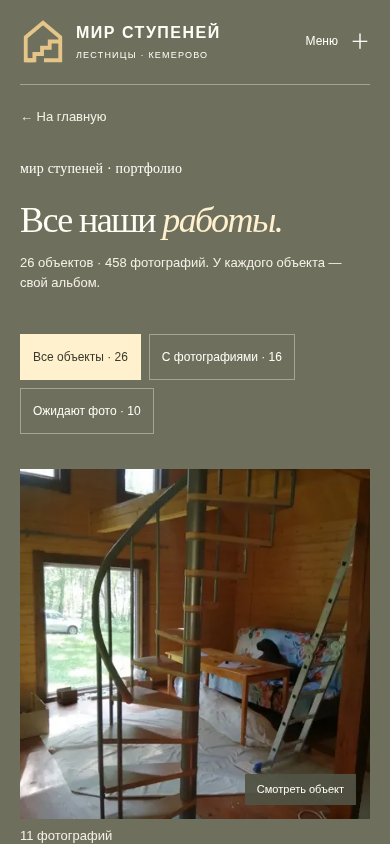
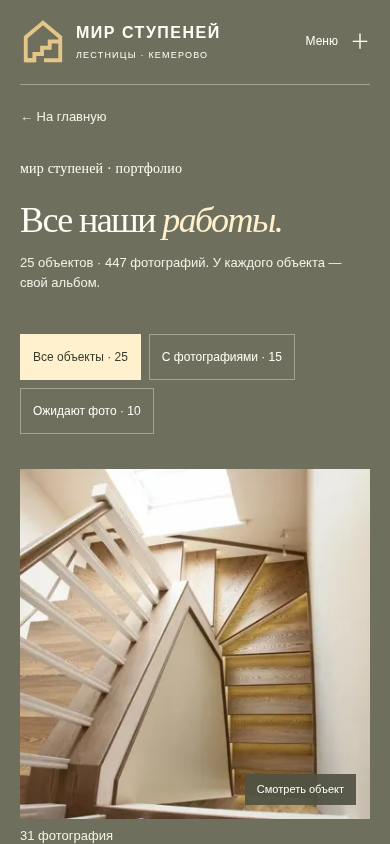
Remove first portfolio object and set requested album order

diff --git a/works.html b/works.html
@@ -4,7 +4,7 @@
   <meta charset="UTF-8">
   <meta name="viewport" content="width=device-width, initial-scale=1">
   <meta name="theme-color" content="#6e6f5d">
-  <meta name="description" content="26 объектов и 458 фотографий лестниц. Портфолио мастерской Мир ступеней в Кемерово.">
+  <meta name="description" content="25 объектов и 447 фотографий лестниц. Портфолио мастерской Мир ступеней в Кемерово.">
   <title>Все работы — Мир ступеней, Кемерово</title>
   <link rel="icon" href="assets/mark.svg" type="image/svg+xml">
   <link rel="stylesheet" href="style.css">
@@ -18,24 +18,36 @@
   </header>
   <main class="wrap portfolio-page">
     <div class="breadcrumbs"><a href="index.html">← На главную</a></div>
-    <div class="portfolio-heading"><p class="eyebrow">Мир ступеней · портфолио</p><h1>Все наши <em>работы.</em></h1><p>26 объектов · 458 фотографий. У каждого объекта — свой альбом.</p></div>
+    <div class="portfolio-heading"><p class="eyebrow">Мир ступеней · портфолио</p><h1>Все наши <em>работы.</em></h1><p>25 объектов · 447 фотографий. У каждого объекта — свой альбом.</p></div>
     <div class="album-filters" role="group" aria-label="Показать объекты" hidden>
-      <button type="button" data-album-filter="all" aria-pressed="true">Все объекты · 26</button>
-      <button type="button" data-album-filter="photos" aria-pressed="false">С фотографиями · 16</button>
+      <button type="button" data-album-filter="all" aria-pressed="true">Все объекты · 25</button>
+      <button type="button" data-album-filter="photos" aria-pressed="false">С фотографиями · 15</button>
       <button type="button" data-album-filter="pending" aria-pressed="false">Ожидают фото · 10</button>
     </div>
     <p id="album-filter-status" class="sr-only" role="status"></p>
     <div class="cards album-cards">
       <article class="card album-card" data-album-status="photos">
-        <a class="album-link" href="works/object-04.html" aria-label="Открыть альбом: 11 фотографий">
-          <div class="album-cover"><img src="assets/projects/65487fbd1a21996f-thumb.webp" alt="Один из наших проектов лестницы" loading="lazy" decoding="async" width="960" height="1280"><span class="photo-hint">Смотреть объект</span></div>
-          <p class="album-count">11 фотографий</p>
-        </a>
-      </article>
-      <article class="card album-card" data-album-status="photos">
         <a class="album-link" href="works/object-05.html" aria-label="Открыть альбом: 31 фотография">
           <div class="album-cover"><img src="assets/projects/83646e6580599667-thumb.webp" alt="Один из наших проектов лестницы" loading="lazy" decoding="async" width="1280" height="853"><span class="photo-hint">Смотреть объект</span></div>
           <p class="album-count">31 фотография</p>
+        </a>
+      </article>
+      <article class="card album-card" data-album-status="photos">
+        <a class="album-link" href="works/object-18.html" aria-label="Открыть альбом: 12 фотографий">
+          <div class="album-cover"><img src="assets/projects/dda95e06a574c650-thumb.webp" alt="Один из наших проектов лестницы" loading="lazy" decoding="async" width="960" height="1280"><span class="photo-hint">Смотреть объект</span></div>
+          <p class="album-count">12 фотографий</p>
+        </a>
+      </article>
+      <article class="card album-card" data-album-status="photos">
+        <a class="album-link" href="works/object-25.html" aria-label="Открыть альбом: 90 фотографий">
+          <div class="album-cover"><img src="assets/projects/9f3cad38c17e79e0-thumb.webp" alt="Один из наших проектов лестницы" loading="lazy" decoding="async" width="960" height="1280"><span class="photo-hint">Смотреть объект</span></div>
+          <p class="album-count">90 фотографий</p>
+        </a>
+      </article>
+      <article class="card album-card" data-album-status="photos">
+        <a class="album-link" href="works/object-16.html" aria-label="Открыть альбом: 50 фотографий">
+          <div class="album-cover"><img src="assets/projects/c5fc3f71432b344d-thumb.webp" alt="Один из наших проектов лестницы" loading="lazy" decoding="async" width="960" height="1280"><span class="photo-hint">Смотреть объект</span></div>
+          <p class="album-count">50 фотографий</p>
         </a>
       </article>
       <article class="card album-card" data-album-status="photos">
@@ -75,21 +87,9 @@
         </a>
       </article>
       <article class="card album-card" data-album-status="photos">
-        <a class="album-link" href="works/object-16.html" aria-label="Открыть альбом: 50 фотографий">
-          <div class="album-cover"><img src="assets/projects/c5fc3f71432b344d-thumb.webp" alt="Один из наших проектов лестницы" loading="lazy" decoding="async" width="960" height="1280"><span class="photo-hint">Смотреть объект</span></div>
-          <p class="album-count">50 фотографий</p>
-        </a>
-      </article>
-      <article class="card album-card" data-album-status="photos">
         <a class="album-link" href="works/object-17.html" aria-label="Открыть альбом: 19 фотографий">
           <div class="album-cover"><img src="assets/projects/cd4a7f48c8c34a57-thumb.webp" alt="Один из наших проектов лестницы" loading="lazy" decoding="async" width="960" height="1280"><span class="photo-hint">Смотреть объект</span></div>
           <p class="album-count">19 фотографий</p>
-        </a>
-      </article>
-      <article class="card album-card" data-album-status="photos">
-        <a class="album-link" href="works/object-18.html" aria-label="Открыть альбом: 12 фотографий">
-          <div class="album-cover"><img src="assets/projects/dda95e06a574c650-thumb.webp" alt="Один из наших проектов лестницы" loading="lazy" decoding="async" width="960" height="1280"><span class="photo-hint">Смотреть объект</span></div>
-          <p class="album-count">12 фотографий</p>
         </a>
       </article>
       <article class="card album-card" data-album-status="photos">
@@ -108,12 +108,6 @@
         <a class="album-link" href="works/object-24.html" aria-label="Открыть альбом: 24 фотографии">
           <div class="album-cover"><img src="assets/projects/e6b535fa0ab2475e-thumb.webp" alt="Один из наших проектов лестницы" loading="lazy" decoding="async" width="719" height="1280"><span class="photo-hint">Смотреть объект</span></div>
           <p class="album-count">24 фотографии</p>
-        </a>
-      </article>
-      <article class="card album-card" data-album-status="photos">
-        <a class="album-link" href="works/object-25.html" aria-label="Открыть альбом: 90 фотографий">
-          <div class="album-cover"><img src="assets/projects/9f3cad38c17e79e0-thumb.webp" alt="Один из наших проектов лестницы" loading="lazy" decoding="async" width="960" height="1280"><span class="photo-hint">Смотреть объект</span></div>
-          <p class="album-count">90 фотографий</p>
         </a>
       </article>
       <article class="card album-card" data-album-status="photos">

diff --git a/tools/build_portfolio.py b/tools/build_portfolio.py
@@ -13,7 +13,10 @@ def plural(n, forms):
 
 def main():
     data = json.loads((ROOT / 'portfolio.json').read_text())
-    albums = data['albums']
+    settings = json.loads((ROOT / 'tools' / 'portfolio_settings.json').read_text())
+    albums = [album for album in data['albums'] if album['title'] not in settings['excluded_folders']]
+    first = {album_id: index for index, album_id in enumerate(settings['first_albums'])}
+    albums.sort(key=lambda album: (not album['photos'], first.get(album['id'], len(first))))
     source = (ROOT / 'index.html').read_text()
     header = re.search(r'  <header[\s\S]*?</header>', source)[0]
     footer = re.search(r'  <footer[\s\S]*?</footer>', source)[0]
@@ -53,7 +56,7 @@ def main():
     cards = []
     total = sum(len(a['photos']) for a in albums)
     ready = sum(bool(a['photos']) for a in albums)
-    for album in sorted(albums, key=lambda album: not album['photos']):
+    for album in albums:
         count = len(album['photos'])
         href = f'works/{album["id"]}.html'
         status = f'{count} {plural(count, ("фотография", "фотографии", "фотографий"))}' if count else 'Фотографии скоро'
@@ -100,6 +103,10 @@ def main():
     </div>
     <div class="portfolio-social"><div><h3>Обсудим вашу лестницу?</h3><p>Позвоните нам или посмотрите подробности работ в нашем сообществе.</p></div><a class="button" href="https://vk.ru/mirstupeney" target="_blank" rel="noopener noreferrer">Смотреть ВКонтакте <span>↗</span></a></div>'''
     (ROOT / 'works.html').write_text(page('Все работы', f'{len(albums)} объектов и {total} фотографий лестниц. Портфолио мастерской Мир ступеней в Кемерово.', content))
+    expected = {f'{album["id"]}.html' for album in albums}
+    for old_page in (ROOT / 'works').glob('object-*.html'):
+        if old_page.name not in expected:
+            old_page.unlink()
     print(f'Built works.html and {len(albums)} object pages')
 
 

diff --git a/tools/import_portfolio.py b/tools/import_portfolio.py
@@ -66,10 +66,13 @@ def download(item):
 
 
 def main():
+    settings = json.loads((ROOT / 'tools' / 'portfolio_settings.json').read_text())
     folders = sorted((f for f in listing('/') if f['type'] == 'dir'), key=lambda f: f['name'].casefold())
     albums = []
     jobs = []
     for number, folder in enumerate(folders, 1):
+        if folder['name'] in settings['excluded_folders']:
+            continue
         queue = [folder['path']]
         files = []
         while queue:

diff --git a/README.md b/README.md
@@ -22,7 +22,7 @@ python3 -m http.server 3000 --bind 0.0.0.0
 
 ## Перед публикацией
 
-- На главной — выбранная подборка из 6 карточек и 12 фотографий в `assets/works/`. В полном каталоге `works.html` — все 26 объектов с отдельными страницами `works/object-*.html`: 16 альбомов с 458 фотографиями и 10 объектов, ожидающих фото. Названия папок не выводятся в каталоге, альбомах, просмотрщике или метаданных страниц. Папки без снимков показаны после альбомов с фотографиями.
+- На главной — выбранная подборка из 6 карточек и 12 фотографий в `assets/works/`. В полном каталоге `works.html` — 25 объектов с отдельными страницами `works/object-*.html`: 15 альбомов с 447 фотографиями и 10 объектов, ожидающих фото. Названия папок не выводятся в каталоге, альбомах, просмотрщике или метаданных страниц. Папки без снимков показаны после альбомов с фотографиями.
 - Полные фотографии для просмотра и небольшие превью в формате WebP находятся в `assets/projects/`. Превью загружаются по мере прокрутки; большие фотографии открываются по нажатию. Доступны стрелки, клавиатура, перелистывание свайпом на телефоне и закрытие клавишей Escape. В альбоме просмотр ограничен одним объектом.
 - Документы и временные файлы с Диска не публикуются. В двух альбомах с видео есть ссылка на исходные материалы на Яндекс Диске; сами видеозаписи остаются там.
 - Под портфолио размещена ссылка на полные подборки работ в сообществе владельца: `https://vk.ru/mirstupeney`.
@@ -43,6 +43,8 @@ python3 -m http.server 3000 --bind 0.0.0.0
 ## Обновление полного портфолио
 
 `portfolio.json` хранит публичные названия объектов и относительные пути к подготовленным фотографиям. Секретов и временных ссылок загрузки в нём нет.
+
+`tools/portfolio_settings.json` задаёт исключённые из публикации папки и порядок первых альбомов. Сейчас первыми идут `object-05` (31 фото), `object-18` (12 фото, винтовая лестница), `object-25` (90 фото), `object-16` (50 фото). Исключённая папка не возвращается при повторном импорте. При сборке устаревшие страницы удалённых объектов очищаются.
 
 Для повторного импорта с публичного Диска требуется Python с Pillow и доступ к `cloud-api.yandex.net`, `downloader.disk.yandex.ru` и `*.storage.yandex.net`:
 
